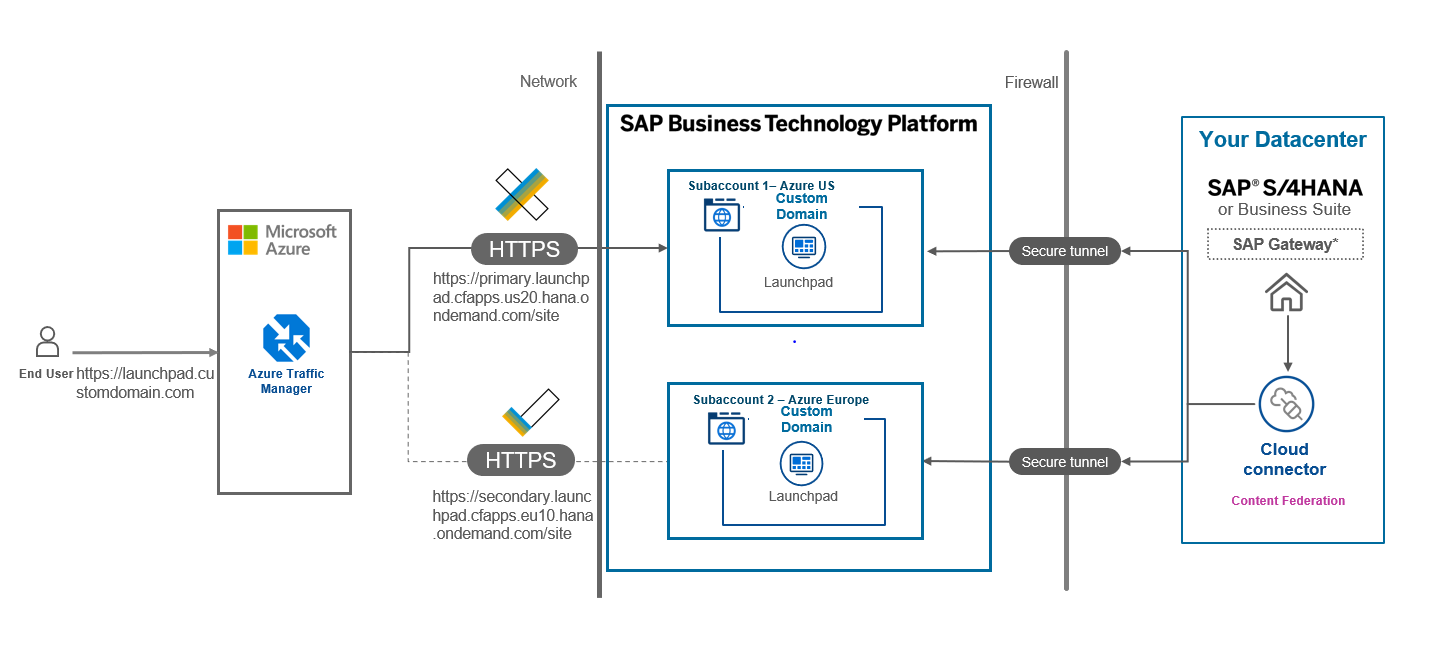
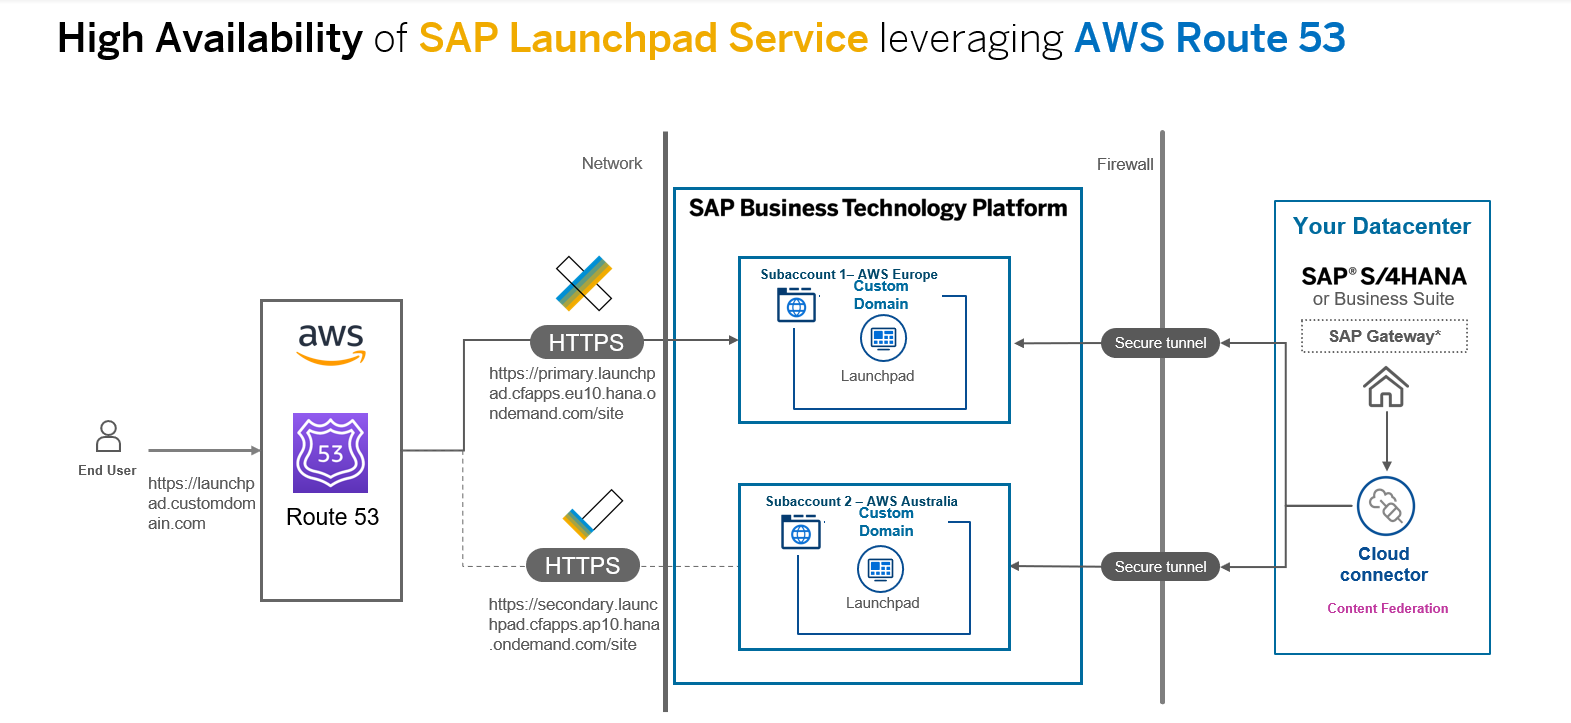
Solution Diagram update

diff --git a/README.md b/README.md
@@ -34,7 +34,7 @@ A cloud native integration pattern that incorporates SAP BTP and AWS to eliminat
 ## Solution
 
 - Using your own domain for SAP Launchpd service using the SAP Custom Domain service
-- Configuring AWS Route 53 and different AWS Route 53 profiles to decouple connection information
+- Configuring AWS Route 53 and different routing policies for the SAP Launchpad service
 
 ## Requirements
 
@@ -69,7 +69,7 @@ Subscriptions required in your SAP Business Technology Platform Account:
 
 [Step 4: Map Custom Domain Routes](./04-Map%20Custom%20Domain%20Routes/)
 
-[Step 5: Setup AWS Route 53 - Portal](./05-Setup%20Azure%20Traffic%20Manager-Portal/)
+[Step 5: Setup AWS Route 53 - Portal](./05-Setup%20AWS%20Route%2053-Console/)
 
 [Step 6: Test Failover Scenario](./06-Test%20Failover%20Scenario/)
 
